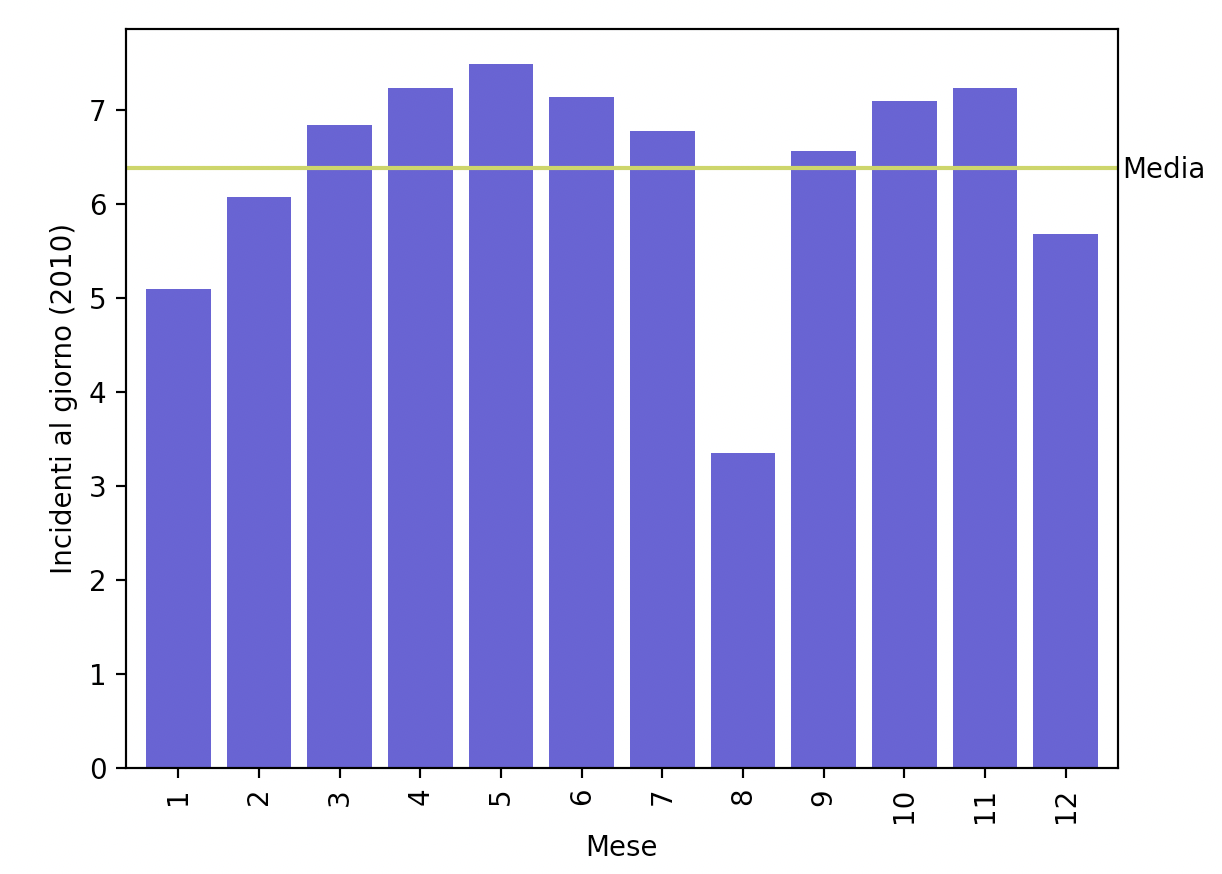
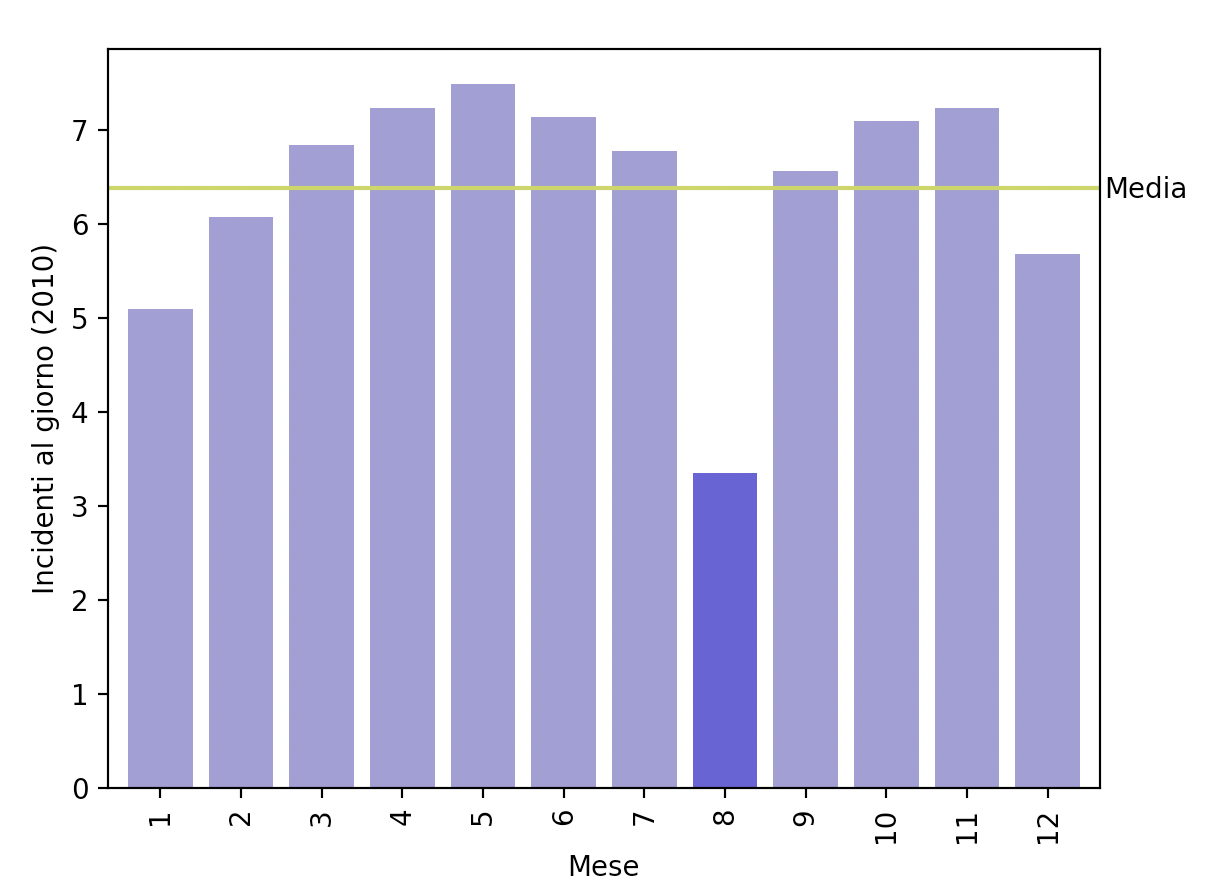
aggiunti anni a autostrade (grafo)

diff --git a/src/incidenti/incidenti_senza_coords/mese_incidenti/milano_mese.py b/src/incidenti/incidenti_senza_coords/mese_incidenti/milano_mese.py
@@ -14,12 +14,15 @@ for giorni_in_mese in [31, 28, 31, 30, 31, 30, 31, 31, 30, 31, 30, 31]:
 
 media = milano_mese.mean()
 
-#plt.xlabel("Mese")
-#plt.ylabel("Incidenti al giorno (2010)")
-#plt.plot([-1, 100], [media, media], color='#c0d147', label='Media')
-#plt.text(11.7,media - 0.1,'Media')
-#milano_mese.plot.bar(width=0.8, color='#5747d1')
-#plt.show()
+color_ls = ['#928ace']*12
+color_ls[7] = '#5747d1'
+
+plt.xlabel("Mese")
+plt.ylabel("Incidenti al giorno (2010)")
+plt.plot([-1, 100], [media, media], color='#c0d147', label='Media')
+plt.text(11.7,media - 0.1,'Media')
+milano_mese.plot.bar(width=0.8, color=color_ls)
+plt.show()
 
 # Quanto scendono gli incidenti in Agosto (Numericamente) 
 # Lo faccio per ogni anno
@@ -42,20 +45,20 @@ var_2010 = variazione_perc(media, agosto)
 
 # Vale per tutti gli anni?
 
-path = "dataset/incidenti/incidenti_"
-for year in range(2011, 2014):
-    dati = pd.read_csv(path + str(year) + ".txt", sep='\t', encoding='latin1')
-    milano_mese = dati[dati['provincia'] == 15]['mese'].value_counts().sort_index()
+# path = "dataset/incidenti/incidenti_"
+# for year in range(2011, 2014):
+#     dati = pd.read_csv(path + str(year) + ".txt", sep='\t', encoding='latin1')
+#     milano_mese = dati[dati['provincia'] == 15]['mese'].value_counts().sort_index()
 
-    index = 0
-    for giorni_in_mese in [31, 28, 31, 30, 31, 30, 31, 31, 30, 31, 30, 31]:
-        milano_mese.iloc[index] /= giorni_in_mese
-        index += 1
+#     index = 0
+#     for giorni_in_mese in [31, 28, 31, 30, 31, 30, 31, 31, 30, 31, 30, 31]:
+#         milano_mese.iloc[index] /= giorni_in_mese
+#         index += 1
 
-    media = milano_mese.mean()
-    agosto = milano_mese.iloc[7]
+#     media = milano_mese.mean()
+#     agosto = milano_mese.iloc[7]
 
-    print(str(year) + ": " + str(variazione_perc(media, agosto)))
+#     print(str(year) + ": " + str(variazione_perc(media, agosto)))
 
 # 2011: -35.14
 # 2012: -45.46

diff --git a/src/incidenti/incidenti_aci/agosto/agosto.py b/src/incidenti/incidenti_aci/agosto/agosto.py
@@ -32,17 +32,16 @@ for year in range(2011, 2019):
     agosto_2018 = pd.read_csv(path + str(year)+".csv")
     agosto_2018 = agosto_2018[['NOME STRADA', 'Agosto']]
     agosto_2018 = aci_utils.sum_field_by_column(agosto_2018, 'NOME STRADA', 'Agosto')
-    agosto_2018 = agosto_2018.sort_values(by='val', ascending=False).head(1)
+    agosto_2018 = agosto_2018.sort_values(by='val', ascending=False).head(5)
     #print(agosto_2018)
     s += agosto_2018['val'].iloc[0]
-    #plt.subplot(8,1,index)
-    ##plt.title(str(year))
-    #index += 1
-    #plt.barh(agosto_2018.index, agosto_2018['val'])
-    ##plt.tight_layout()
-    #plt.legend("")
+    plt.subplot(8,1,index)
+    plt.title(str(year), loc='right', y=0.5)
+    index += 1
+    plt.barh(agosto_2018.index, agosto_2018['val'])
+    #plt.tight_layout()
     
 
-print(s / 8)
-#plt.show()
+#print(s / 8)
+plt.show()
 
